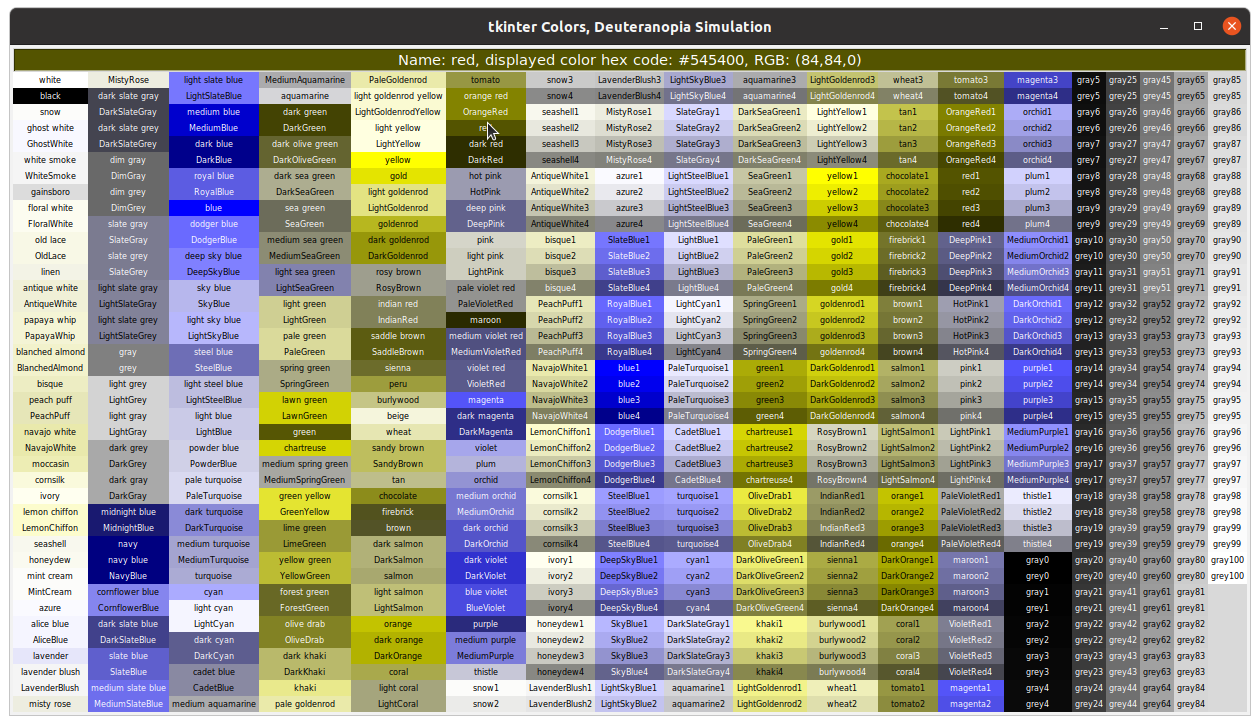
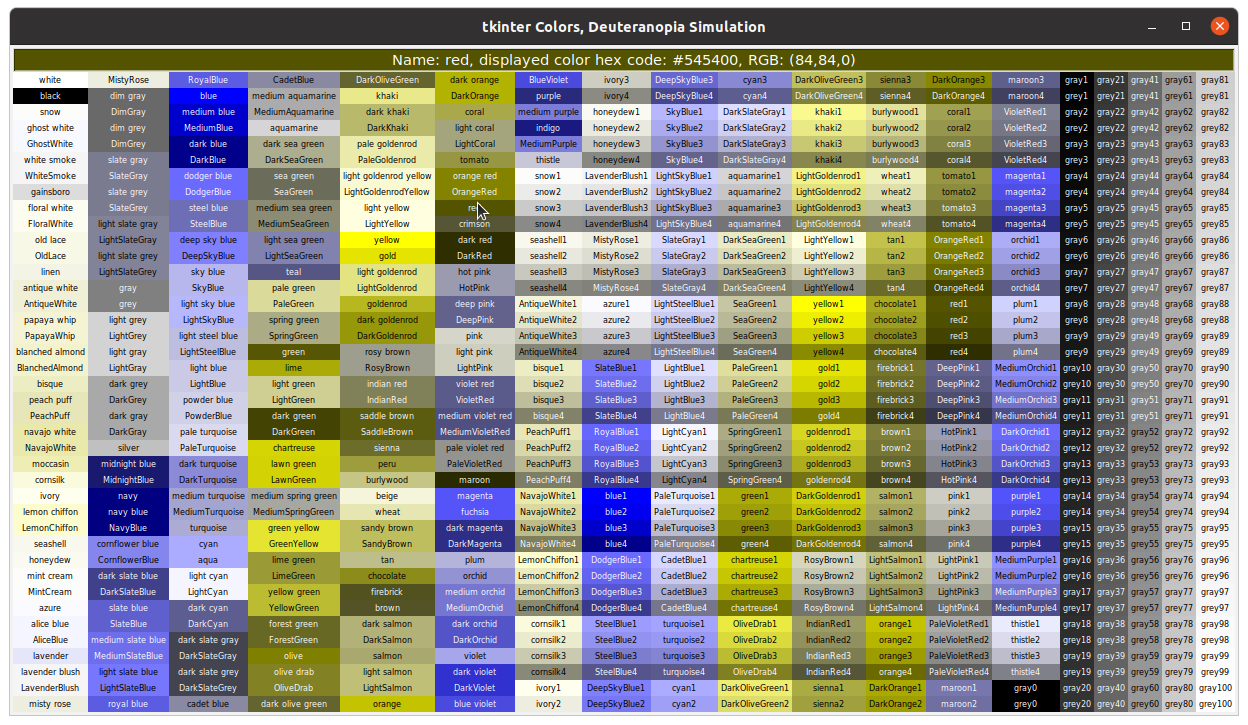
update README.md images

diff --git a/tk-color-convert.py b/tk-color-convert.py
@@ -41,15 +41,12 @@ if sys.version_info < (3, 6):
           'Python downloads are available from https://docs.python.org/')
     sys.exit(1)
 
-# X11_RGB_NAMES: 760, derived from /opt/X11/share/X11/rgb.txt on macOS,
-#   Names containing 'X11' were removed (and a few others).
-#   The macOS rgb.txt file has these valid tkinter names not found in
-#   /usr/share/X11/rgb.txt in Ubuntu Linux 5.4:
-#   silver, aqua, teal, lime, olive, crimson, fuchsia, indigo.
-#   The Linux X11 name 'DebianRed' throws an error, _tkinter.TclError: unknown color name
-#     as does any invalid name.
-# NOTE: Many Tcl/Tk of the colors from https://www.tcl.tk/man/tcl8.4/TkCmd/colors.html
-#   are also invalid in tkinter.
+# X11_RGB_NAMES: 760 named colors the intersection of the rbg.txt files from
+#   Linux /usr/share/X11/rgb.txt and MacOS /opt/X11/share/X11/rgb.txt.
+#   Names containing 'X11' and 'Debian, were removed as well as a few others.
+#   The retained names are valid for tkinter 8.6 on Linux, MacOS, and Windows.
+# NOTE: Many Tcl/Tk colors from https://www.tcl.tk/man/tcl8.4/TkCmd/colors.html
+#   are invalid in tkinter 8.6.
 X11_RGB_NAMES = ('white', 'black', 'snow', 'ghost white', 'GhostWhite', 'white smoke',
                  'WhiteSmoke', 'gainsboro', 'floral white', 'FloralWhite', 'old lace',
                  'OldLace', 'linen', 'antique white', 'AntiqueWhite', 'papaya whip',
@@ -201,7 +198,7 @@ if my_os in 'lin, win':
 if my_os == 'dar':
     FONT_SIZE = 9
 
-# 40 rows provide a nice spatial organization of color groups.
+# 40 rows provide nice spatial organization for 760 color names.
 MAX_ROWS = 40
 # Cutoff of perceived brightness in range(128-145) to switch from black to white
 #  foreground will give acceptable visual contrast when background below that pB.
